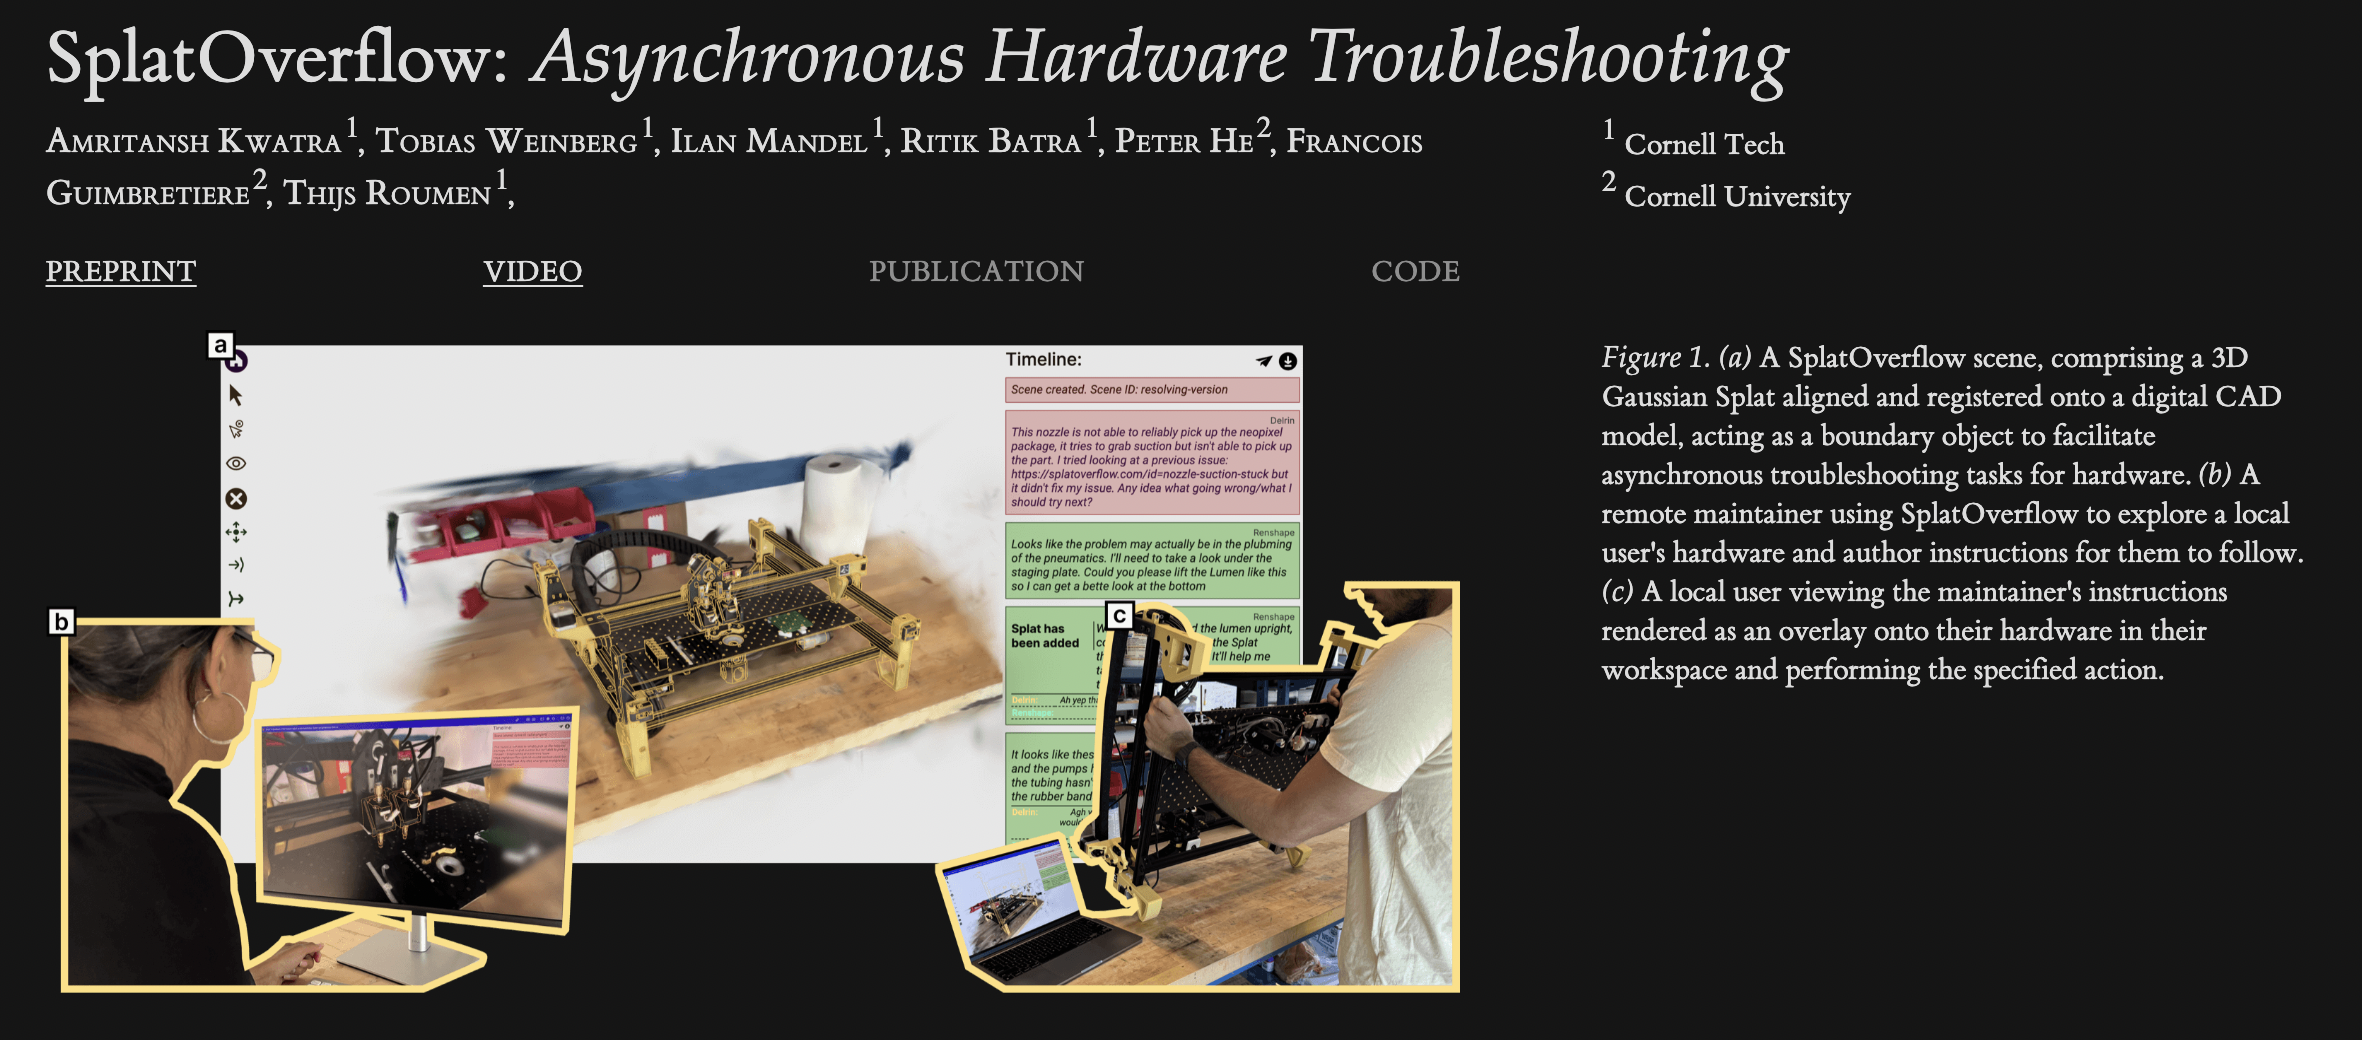
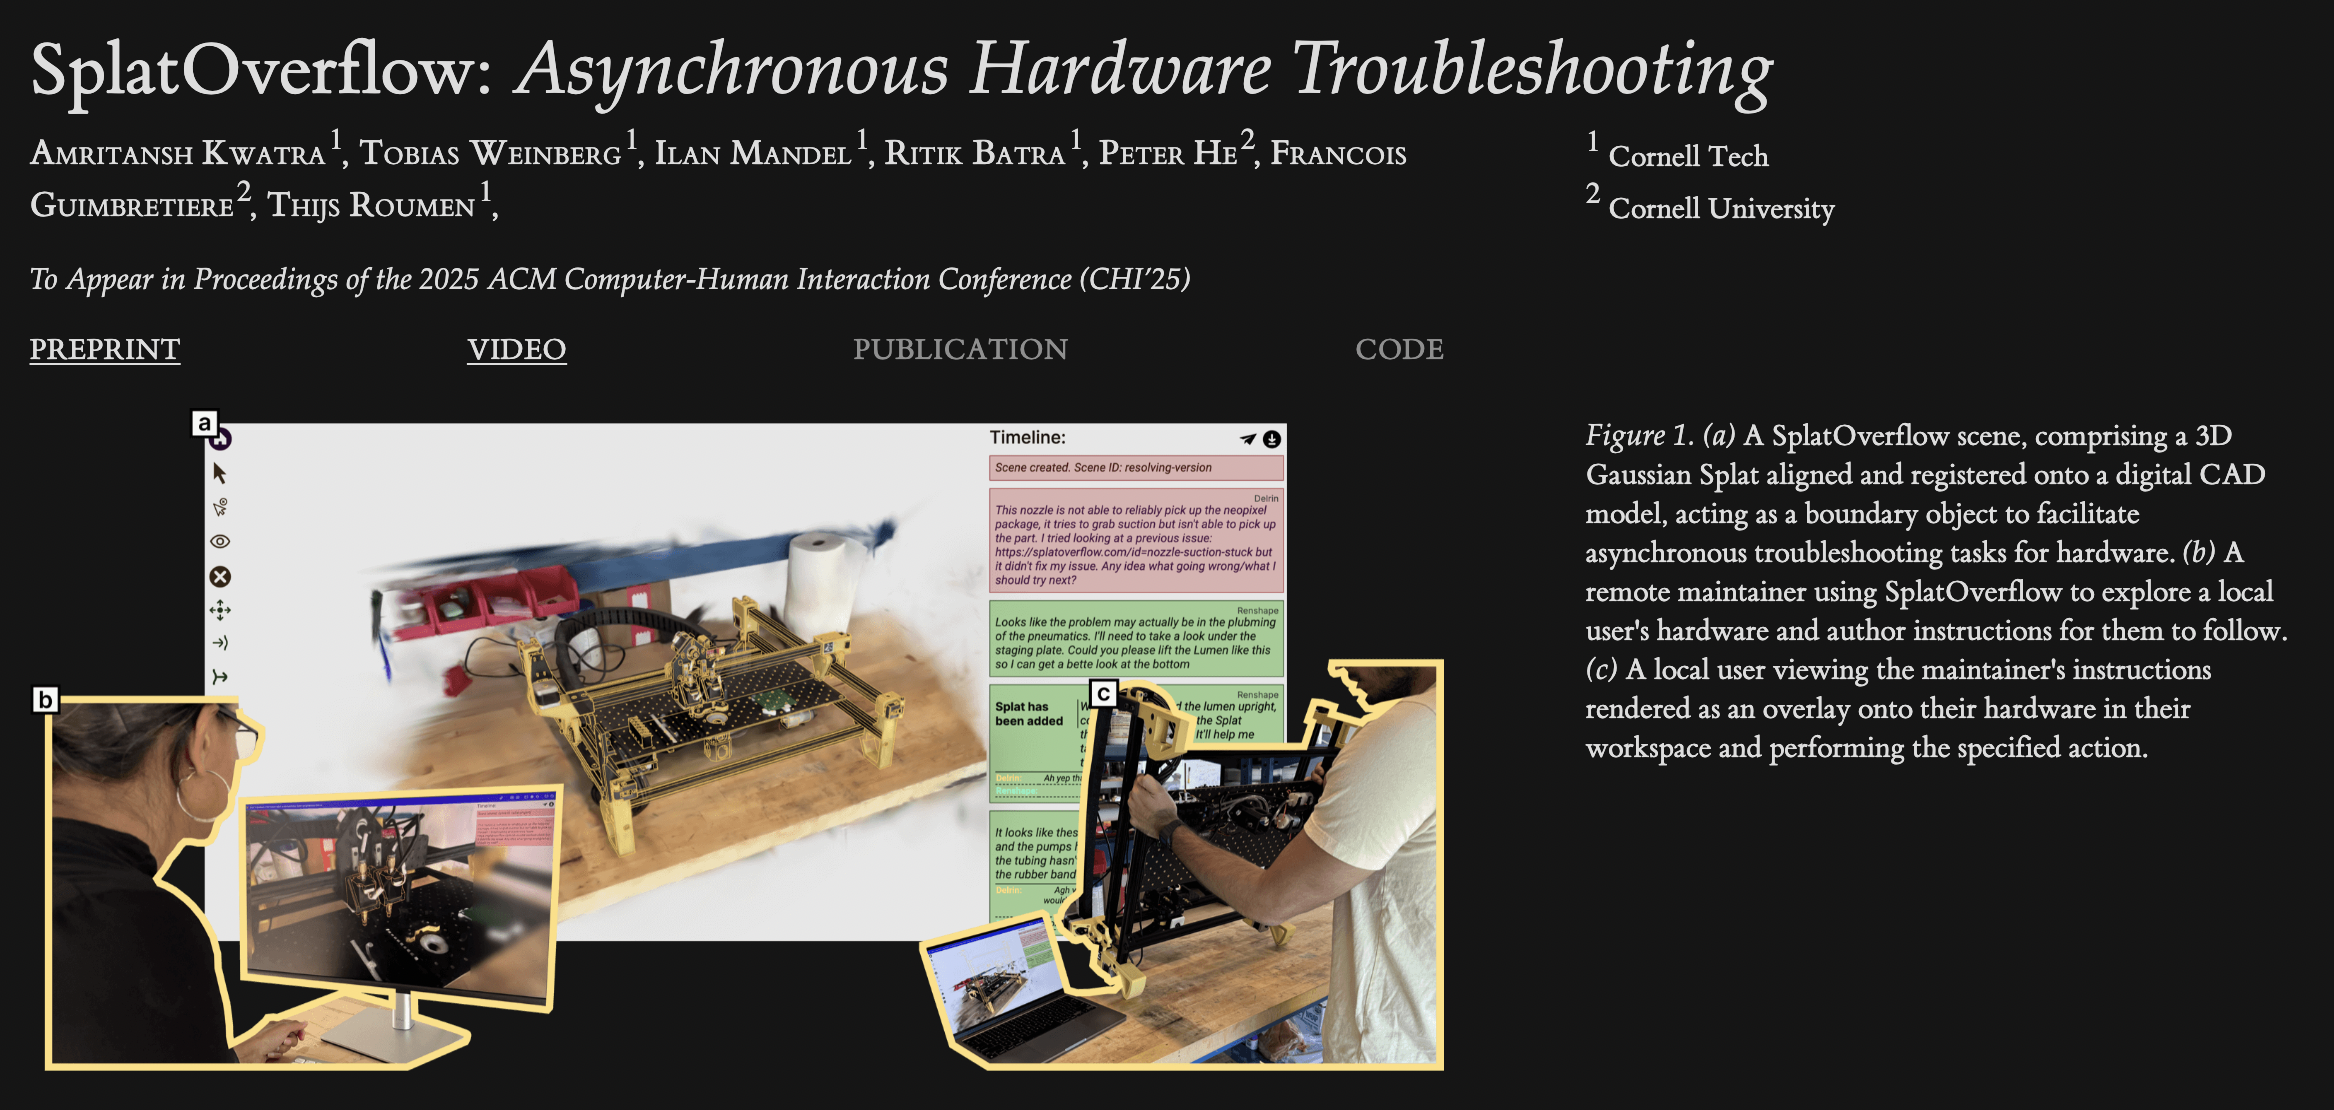
adding venue

diff --git a/style/tufte.css b/style/tufte.css
@@ -33,6 +33,13 @@
     /* font-style: bold; */
 }
 
+.proc-venue{
+    font-size: 1rem;
+    font-style: italic;
+    margin-top: 0.5rem;
+    margin-bottom: 0.5rem;
+}
+
 .col-g{
     color: #3C9764;
 }

diff --git a/scripts/_types.py b/scripts/_types.py
@@ -72,25 +72,35 @@ class Link:
         else:
             return f"<span class='newthought'><a class='unpop' href=''>{self.text}</a></span>"
 
+class Venue:
+    def __init__(self, venue):
+        self.venue = venue
+
+    def __str__(self):
+        return self.venue
+
+    def __html__(self):
+        return f"<p class='proc-venue'>{self.venue}</p>"
 
 class Metadata:
-    def __init__(self, title, authors, preprint, video, publication, code):
+    def __init__(self, title, authors, venue, preprint, video, publication, code):
         self.title = title
         self.authors = authors
+        self.venue = venue
         self.preprint = preprint
         self.video = video
         self.publication = publication
         self.code = code
     
     def __str__(self):
-        return f"Title: {self.title}\nAuthors: {str(self.authors)}\nPreprint: {str(self.preprint)}\nVideo: {str(self.video)}\nPublication: {str(self.publication)}\nCode: {str(self.code)}"
+        return f"Title: {self.title}\nAuthors: {str(self.authors)}\nVenue: {str(self.venue)}\nPreprint: {str(self.preprint)}\nVideo: {str(self.video)}\nPublication: {str(self.publication)}\nCode: {str(self.code)}"
 
     def format_links(self):
         inner_html = self.preprint.__html__() + self.video.__html__() + self.publication.__html__() + self.code.__html__()
         return f"<p class='links'>{inner_html}</p>"
 
     def __html__(self):
-        inner_html = self.title.__html__() + self.authors.__html__() + self.format_links()
+        inner_html = self.title.__html__() + self.authors.__html__() + self.venue.__html__() +  self.format_links()
         return f"<section id = 'title-main'>{inner_html}</section>"
         
 

diff --git a/scripts/generate.py b/scripts/generate.py
@@ -2,7 +2,7 @@ import os
 import argparse
 import marko
 import frontmatter
-from _types import Title, Authors, Author, Link, Metadata
+from _types import Title, Authors, Author, Link, Metadata, Venue
 
 import re
 
@@ -21,9 +21,6 @@ def generate_premble(x):
                 <title>{__x}</title>
                 <link rel="stylesheet" href="../style/tufte.css"/>
                 <meta name="viewport" content="width=device-width, initial-scale=1">
-                <link rel="icon" href="../icons/favicon.ico" sizes="32x32">
-                <link rel="icon" href="../icons/icon.svg" type="image/svg+xml">
-                <link rel="apple-touch-icon" href="../icons/apple-touch-icon.png">
             </head>
 
             <body>
@@ -45,12 +42,13 @@ def parse_frontmatter(file_path):
     fm = frontmatter.loads(content)
     title = Title(fm['title'])
     authors = Authors([Author(author['name'], author['affiliation']) for author in fm['authors']])
+    venue = Venue(fm['venue'])
     preprint__link = Link("preprint", fm['preprint'])
     video__link = Link("video", fm['video'])
     publication__link = Link("publication", fm['publication'])
     code__link = Link("code", fm['code'])
     
-    metadata = Metadata(title, authors, preprint__link, video__link, publication__link, code__link)
+    metadata = Metadata(title, authors, venue, preprint__link, video__link, publication__link, code__link)
     return metadata
 
 def strip_frontmatter(content):

diff --git a/sample.md b/sample.md
@@ -1,6 +1,6 @@
 ---
 title: "SplatOverflow: Asynchronous Hardware Troubleshooting"
-venue: to appear at ACM CHI 2025
+venue: To Appear in Proceedings of the 2025 ACM Computer-Human Interaction Conference (CHI’25)
 authors:
   - name: "Amritansh Kwatra"
     affiliation: "Cornell Tech"
